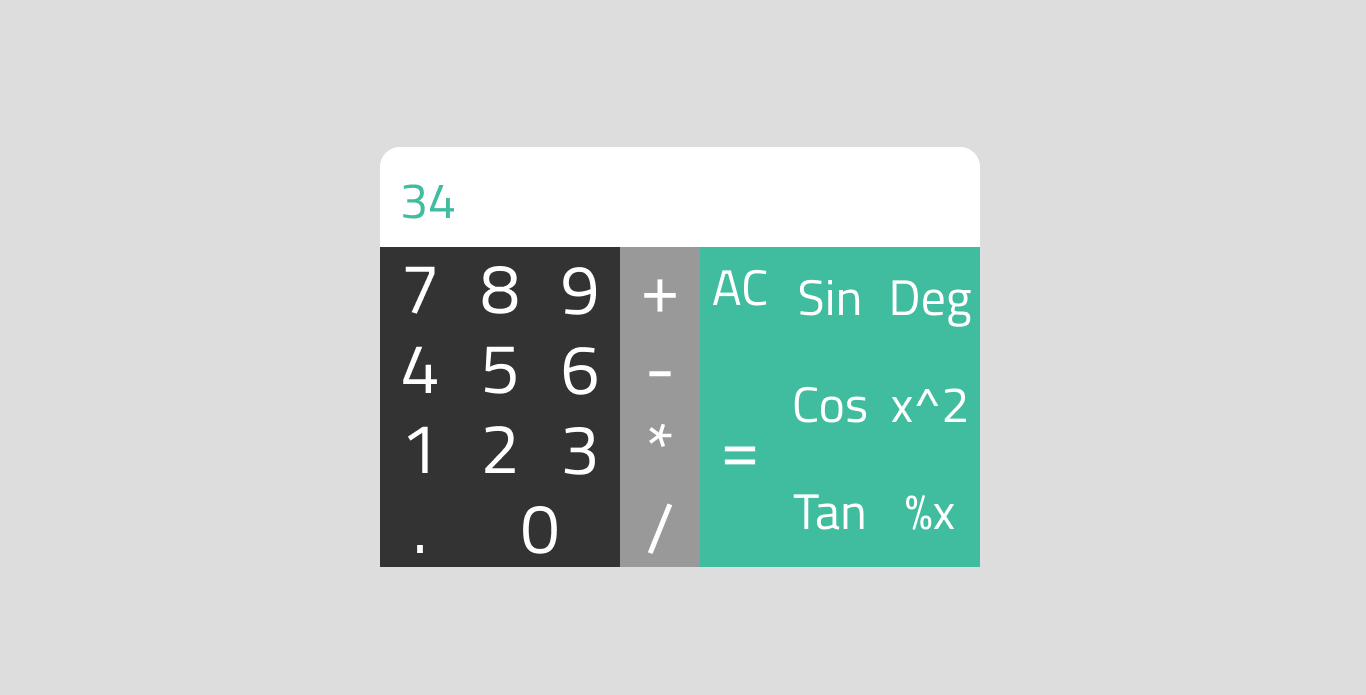
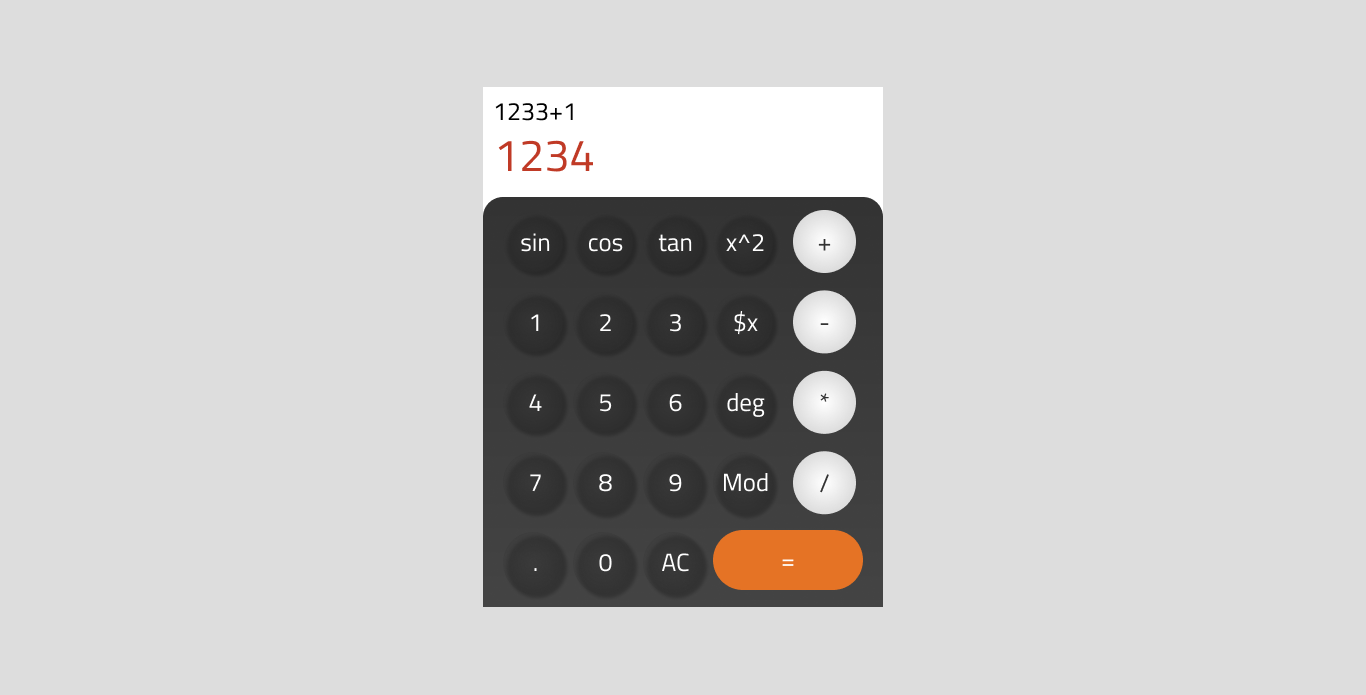
Change UI

Changed region(s): [[0.2767, 0.1209, 0.7379, 0.8763]]

diff --git a/JS/script2.js b/JS/script2.js
@@ -33,14 +33,14 @@ function clear() {
 
 function analyzeEqn() {
     if (degreeMode.innerHTML === 'Deg') {
-        eqn = eqn.replace(/Sin\(/g, 'Math.sin(Math.PI/180*')
-            .replace(/Cos\(/g, 'Math.cos(Math.PI/180*')
-            .replace(/Tan\(/g, 'Math.tan(Math.PI/180*')
+        eqn = eqn.replace(/sin\(/g, 'Math.sin(Math.PI/180*')
+            .replace(/cos\(/g, 'Math.cos(Math.PI/180*')
+            .replace(/tan\(/g, 'Math.tan(Math.PI/180*')
             .replace(/√/g, 'Math.sqrt')
     } else {
-        eqn = eqn.replace(/Sin/g, 'Math.sin')
-            .replace(/Cos/g, 'Math.cos')
-            .replace(/Tan/g, 'Math.tan')
+        eqn = eqn.replace(/sin/g, 'Math.sin')
+            .replace(/cos/g, 'Math.cos')
+            .replace(/tan/g, 'Math.tan')
             .replace(/√/g, 'Math.sqrt')
     }
     while (eqn.indexOf('<s') !== -1) {
@@ -52,7 +52,7 @@ function analyzeEqn() {
                 eqn = eqn.replace(y, z)
                 break;
             }
-            if (isNaN(eqn[i] && eqn[i] !== ')')) {
+            if (isNaN(eqn[i]) && eqn[i] !== ')') {
                 y = eqn.slice(i + 1, eqn.indexOf('</sup>') + 6)
                 z = 'Math.pow(' + eqn.slice(i + 1, index) + ', 2)'
                 eqn = eqn.replace(y, z)
@@ -74,21 +74,23 @@ function clkNumbers(number) {
     // To avoid two points in number
     if (number === '.' && point === false) {
         point = true;
-        number.disabled = true
+        pointBtn.disabled = true
     }
 }
 
-numbers.forEach(number => {
+for(var i = 0 ; i<numbers.length - 1 ; i++){
+    var number = numbers[i]
     number.addEventListener('click', function(){
         clkNumbers(this.innerHTML)
     })
-});
+}
 
 // AC button
-document.querySelector(".clear").addEventListener("click", clear)
+numbers.slice(-1)[0].addEventListener('click', clear)
 
 // Operations buttons
-operations.forEach(operation => {
+for(var i = 0; i<operations.length ; i++){
+    var operation = operations[i]
     operation.addEventListener('click', function () {
         op = this.textContent;
         if (result.innerHTML === '') {
@@ -121,26 +123,27 @@ operations.forEach(operation => {
             numbers.forEach(number => number.disabled = false)
         }
     })
-});
+}
 
 // Trignometric functions buttons
-triFuns.forEach(element => {
+for(var i = 0 ; i<triFuns.length ; i++){
+    var element = triFuns[i];
     element.addEventListener('click', function () {
         if (result.innerHTML !== 'Infinity') {
             if (showResult) eqn = ''
             result.innerHTML = this.innerHTML + '(' + result.innerHTML + ')'
-            numbers.forEach(number => number.disabled = true)
+            for(var i = 0 ;i<numbers.length - 1; i++) numbers[i].disabled = true            
             equalBtn.disabled = false
             showResult = false
         }
     })
-});
+}
 
 // Square root button
 sqrtBtn.addEventListener('click', function () {
     if (result.innerHTML !== 'Infinity') {
         result.innerHTML = '&radic;(' + result.innerHTML + ')'
-        numbers.forEach(number => number.disabled = true)
+        for(var i = 0 ;i<numbers.length - 1; i++) numbers[i].disabled = true
         equalBtn.disabled = false
     }
 })
@@ -149,7 +152,7 @@ sqrtBtn.addEventListener('click', function () {
 squareBtn.addEventListener('click', function () {
     if (result.innerHTML !== 'Infinity') {
         result.innerHTML = result.innerHTML + '<sup>2</sup>'
-        numbers.forEach(number => number.disabled = true)
+        for(var i = 0 ;i<numbers.length - 1; i++) numbers[i].disabled = true        
         equalBtn.disabled = false
     }
 })
@@ -163,7 +166,6 @@ equalBtn.addEventListener('click', function () {
         result.innerHTML = Math.round(eval(eqn) * 100000) / 100000
         if (result.innerHTML.length > 10) result.innerHTML = 'Infinity'
         showResult = true;
-        numbers.forEach(number => number.disabled = false)
     }
 })
 

diff --git a/Css/calc.css b/Css/calc.css
@@ -1,66 +1,80 @@
+body{background-color: #ddd}
+
 main{
-    margin: 10px auto;
-    min-height: 550px;
-    width: 50%;
-    background-color: #ddd;
-    border-radius: 20px;
-    overflow: auto;
+    width: 400px;
+    margin: 0 auto;
+    height: 520px;
+    margin-top: 87px;
+    background-color: #fff;
+    font-family: Cairo;
+    font-size: 25px;
 }
 
-#result{
-    width: 95%;
-    height: 100px;
-    background-color: #333;
-    margin: 20px auto;
-    border-radius: 5px
+main #result{height: 110px;}
+
+main #result p{
+    color: #C03A26;
+    font-size: 45px;
+    margin: 10px;
 }
 
-#result p{
-    font-size: 2.5em;
-    line-height: 1em;
-    margin: 0;
-    padding-left: 20px;
+main #result .textbox{
+    font-size: 25px;
+    color: #333
+}
+
+main button{
+    border-radius: 50%;
+    outline: none
+}
+
+main button:disabled{color: #555}
+
+main button.equal{
+    border-radius: 50px;
+    background-color: #E57325;
     color: #fff;
-    padding-top: 7px;
 }
 
-#result .textbox{font-size: 1.5em;}
-
-.numbers{
-
+main .buttons{
+    display: grid;
+    grid-template-columns: repeat(5, 60px);
+    grid-template-rows: repeat(5, 60px);
+    grid-template-areas: 
+    "sin cos tann squar oper"
+    "nums nums nums sqrt oper"
+    "nums nums nums deg oper"
+    "nums nums nums mod oper"
+    "nums nums nums equal equal";
+    background: linear-gradient(#333, #444);
+    height: 380px;
+    grid-gap: 20px 10px;
+    border-top-left-radius: 20px;
+    border-top-right-radius: 20px;
+    padding: 20px;
 }
 
-/* .container-fluid{padding-left: 20px;}
+main .buttons .sin{grid-area: sin}
+main .buttons .cos{grid-area: cos}
+main .buttons .tan{grid-area: tann}
+main .buttons .square{grid-area: squar}
+main .buttons .sqrt{grid-area: sqrt}
+main .buttons .deg{grid-area: deg}
+main .buttons .mod{grid-area: mod}
+main .buttons .Operators{grid-area: oper}
+main .buttons .equal{grid-area: equal}
 
-main .col-xs-4{
-    padding-top: 25px;
-    padding-bottom: 25px;
+main .buttons .Numbers{
+    grid-area: nums;
+    display: grid;
+    grid-gap: 20px 10px;
+    grid-template-columns: repeat(3, 60px);
+    grid-template-rows: repeat(4, 60px)
 }
 
-main .btn-default{
-    border-color: #333;
-    width: 80%;
-    height: 56px;
-    box-shadow:inset 0 -0.6em 1em -0.35em rgba(0,0,0,0.17),
-            inset 0 0.6em 2em -0.3em rgba(255,255,255,0.15),
-            inset 0 0 0em 0.05em rgba(255,255,255,0.12);
-
+main .buttons .Operators{
+    display: grid;
+    grid-template-columns: 63px;
+    grid-template-rows: repeat(4, 63px);
+    grid-gap: 20px 10px;
 }
-
-main .btn-default:hover{
-    background-color: #333;
-    color: #ddd;
-    font-weight: bold;
-    transition: all 0.5s ease-in-out
-}
-
-main .btn-default:disabled, main .btn-default:disabled:disabled{
-    color: #000;
-    background-color: #EEE;
-    opacity: 1;
-    font-weight: normal;
-    box-shadow:inset 0 -0.6em 1em -0.35em rgba(0,0,0,0.17),
-            inset 0 0.6em 2em -0.3em rgba(255,255,255,0.15),
-            inset 0 0 0em 0.05em rgba(255,255,255,0.12);
-    cursor: default;
-} */

diff --git a/calc.html b/calc.html
@@ -14,34 +14,36 @@
             <p class="textbox"></p>
             <p></p>
         </div>
-        <div class="Numbers">
-            <button>1</button>
-            <button>2</button>
-            <button>3</button>
-            <button>4</button>
-            <button>5</button>
-            <button>6</button>
-            <button>7</button>
-            <button>8</button>
-            <button>9</button>
-            <button class="point" >.</button>
-            <button class="zero" >0</button>
-        </div>
-        <button class="clear">AC</button>
-        <div class="Operators">
-            <button>+</button>
-            <button>-</button>
+        <div class="buttons">
+            <button class="sin triFun">sin</button>
+            <button class="cos triFun">cos</button>
+            <button class="square">X<sup>2</sup></button>
+            <button class="tan triFun">tan</button>
+            <div class="Numbers">
+                <button>1</button>
+                <button>2</button>
+                <button>3</button>
+                <button>4</button>
+                <button>5</button>
+                <button>6</button>
+                <button>7</button>
+                <button>8</button>
+                <button>9</button>
+                <button class="point" >.</button>
+                <button class="zero" >0</button>
+                <button class="clear">AC</button>
+            </div>
+            <div class="Operators">
+                <button>+</button>
+                <button>-</button>
+                <button>*</button>
+                <button>/</button>
+            </div>
             <button class="mod">Mod</button>
-            <button>*</button>
-            <button>/</button>
+            <button class="sqrt">&radic;(X)</button>
+            <button class="triMode deg">Deg</button>
+            <button class="equal">=</button>
         </div>
-        <button class="sqrt">&radic;(X)</button>
-        <button class="sin triFun">Sin</button>
-        <button class="cos triFun">Cos</button>
-        <button class="square">X<sup>2</sup></button>
-        <button class="tan triFun">Tan</button>
-        <button class="triMode">Deg</button>
-        <button class="equal">=</button>
     </main>
     <script src="JS/script2.js"></script>
 </body>
